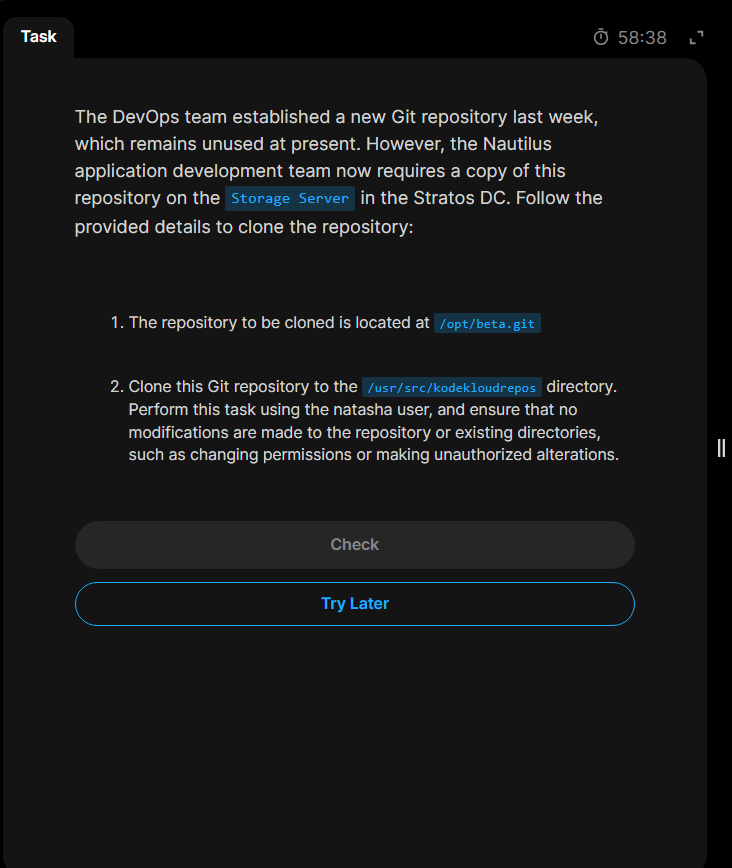
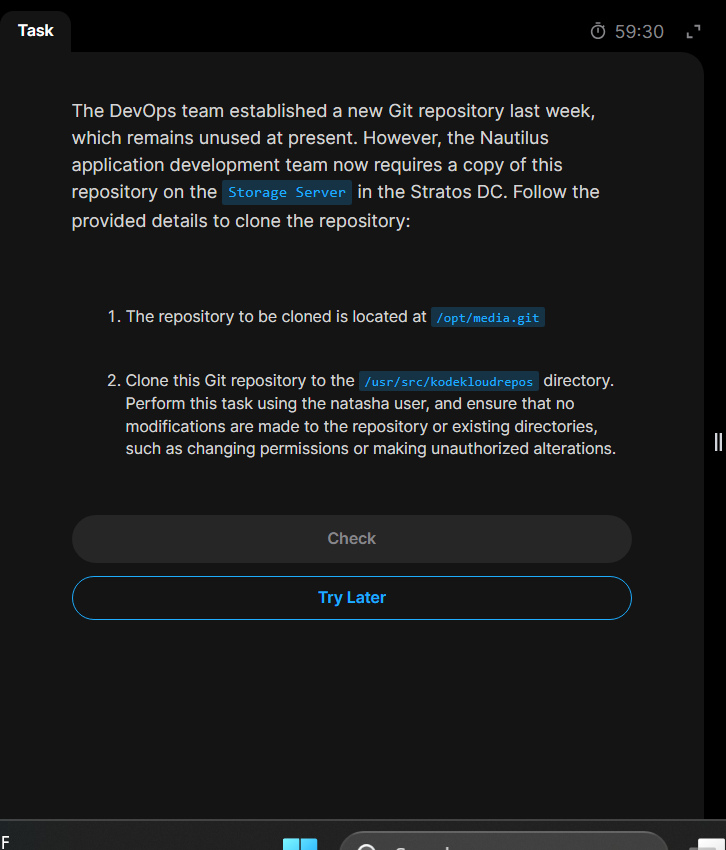
Day22: Clone Git Repository on Storage Server

diff --git a/100daysOfDevOps/Day22/README.md b/100daysOfDevOps/Day22/README.md
@@ -1,0 +1,15 @@
+# Day22: Clone Git Repository on Storage Server
+
+## The day's task involves cloning an existing Git repository from the Storage Server into the specified repository directory while ensuring the clone is performed under the correct user context.
+
+![alt text](Screenshots/task.png)
+
+### Step1: `ssh login` to the storage server (`ststor01`)
+
+### Step2: Change into the specified repository directory. (`cd /usr/src/kodekloudrepos`)
+
+### Step3: Clone the repository here (`git clone opt/media.git`)
+
+### Done!
+
+![alt text](Screenshots/1.clonned.png)
